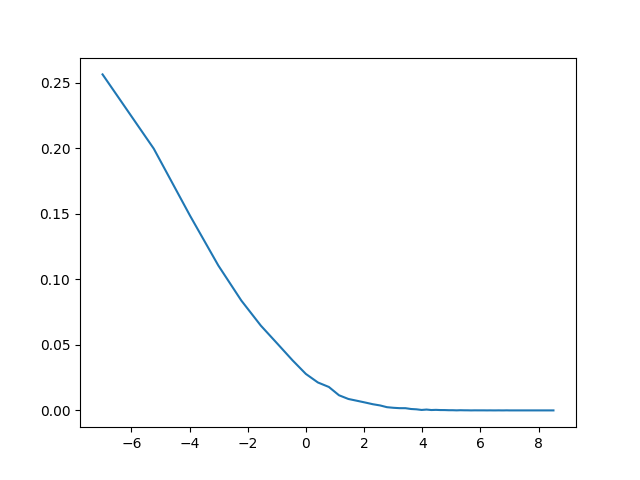
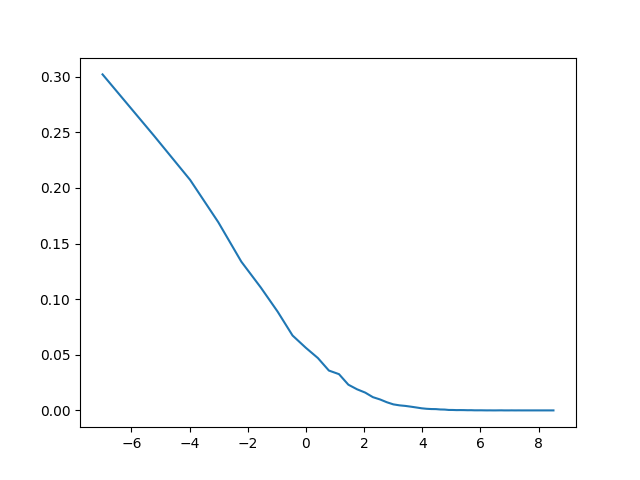
chapter-4, task-2_2; count spans in ch4t4

diff --git a/chapter4/task2.py b/chapter4/task2.py
@@ -6,7 +6,7 @@ from utils.decoder import Decoder, generate_sequences, np_to_str
 import numpy as np
 import matplotlib.pyplot as plt
 
-N = 10 ** 3
+N = 3 * (10 ** 2)
 
 
 def spoil_codeword(codeword, p):
@@ -39,15 +39,22 @@ def bit_error_probability(p, matrix):
     return diff / float((N * k * (2 ** k)))
 
 
+def count_p(val):
+    return 1 - norm.cdf(np.sqrt(2 * val))
+
+
 if __name__ == '__main__':
-    matrix = np.array([[0, 1, 0, 1, 1, 0, 1, 0, 0, 0],
-              [1, 0, 1, 1, 1, 0, 0, 1, 0, 0],
-              [0, 1, 1, 0, 1, 1, 0, 0, 1, 0],
-              [1, 0, 1, 0, 1, 1, 0, 0, 0, 1]])
+    matrix = np.array([[1, 0, 0, 0, 0, 0, 0, 1, 0, 1],
+                       [0, 1, 0, 0, 0, 0, 1, 0, 1, 0],
+                       [0, 0, 1, 0, 0, 0, 0, 1, 1, 1],
+                       [0, 0, 0, 1, 0, 0, 1, 1, 0, 0],
+                       [0, 0, 0, 0, 1, 0, 1, 1, 1, 1],
+                       [0, 0, 0, 0, 0, 1, 0, 0, 1, 1]]
+                      )
     X = []
     Y = []
     for val in [0.1 * (i + 2) for i in range(70)]:
-        p = 1 - norm.cdf(np.sqrt(2 * val))
+        p = count_p(val)
         X.append(10 * np.log10(val))
         Y.append(bit_error_probability(p, matrix))
     print X

diff --git a/chapter4/task4.py b/chapter4/task4.py
@@ -1,0 +1,22 @@
+import numpy as np
+
+if __name__ == '__main__':
+    matrix = np.array([[1, 0, 0, 0, 0, 0, 0, 1, 0, 1],
+                       [0, 1, 0, 0, 0, 0, 1, 0, 1, 0],
+                       [0, 0, 1, 0, 0, 0, 0, 1, 1, 1],
+                       [0, 0, 0, 1, 0, 0, 1, 1, 0, 0],
+                       [0, 0, 0, 0, 1, 0, 1, 1, 1, 1],
+                       [0, 0, 0, 0, 0, 1, 0, 0, 1, 1]]
+                      )
+    spans = []
+    for row in matrix:
+        size = len(row)
+        min_ind, max_ind, ind = size, 0, 0
+        while ind < size:
+            if row[ind] == 1:
+                max_ind = ind - 1
+                if min_ind == size:
+                    min_ind = ind
+            ind += 1
+        spans.append((min_ind, max_ind))
+    print spans

diff --git a/chapter4/task2_2.py b/chapter4/task2_2.py
@@ -1,0 +1,16 @@
+from chapter4.task2 import count_p
+
+
+def find_probability(left, right, eps, probability):
+    mid = (left + right) / 2
+    if (right - left) < eps:
+        return mid
+    value = count_p(mid)
+    if probability > value:
+        return find_probability(left, mid, eps, probability)
+    else:
+        return find_probability(mid, right, eps, probability)
+
+
+if __name__ == '__main__':
+    print find_probability(0.6, 10.0, 10 ** (-7), 10 ** (-5))
